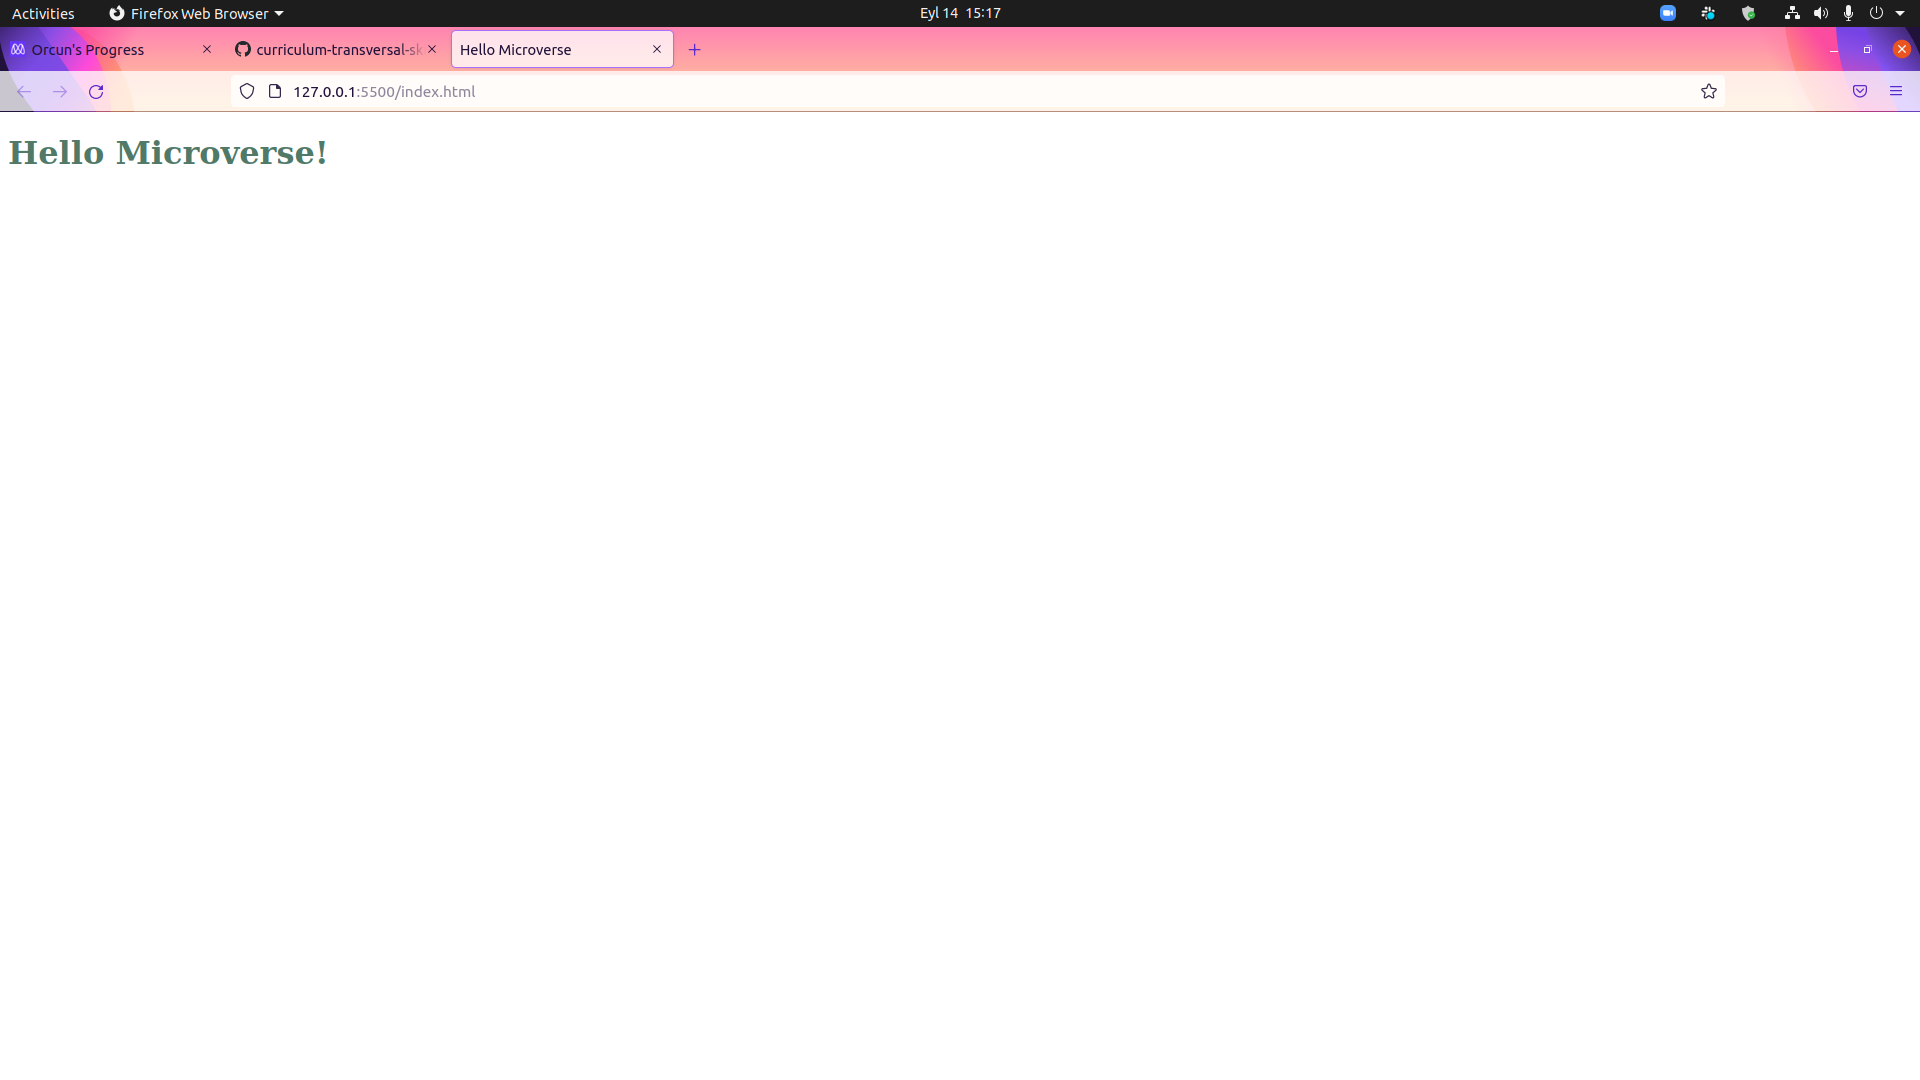
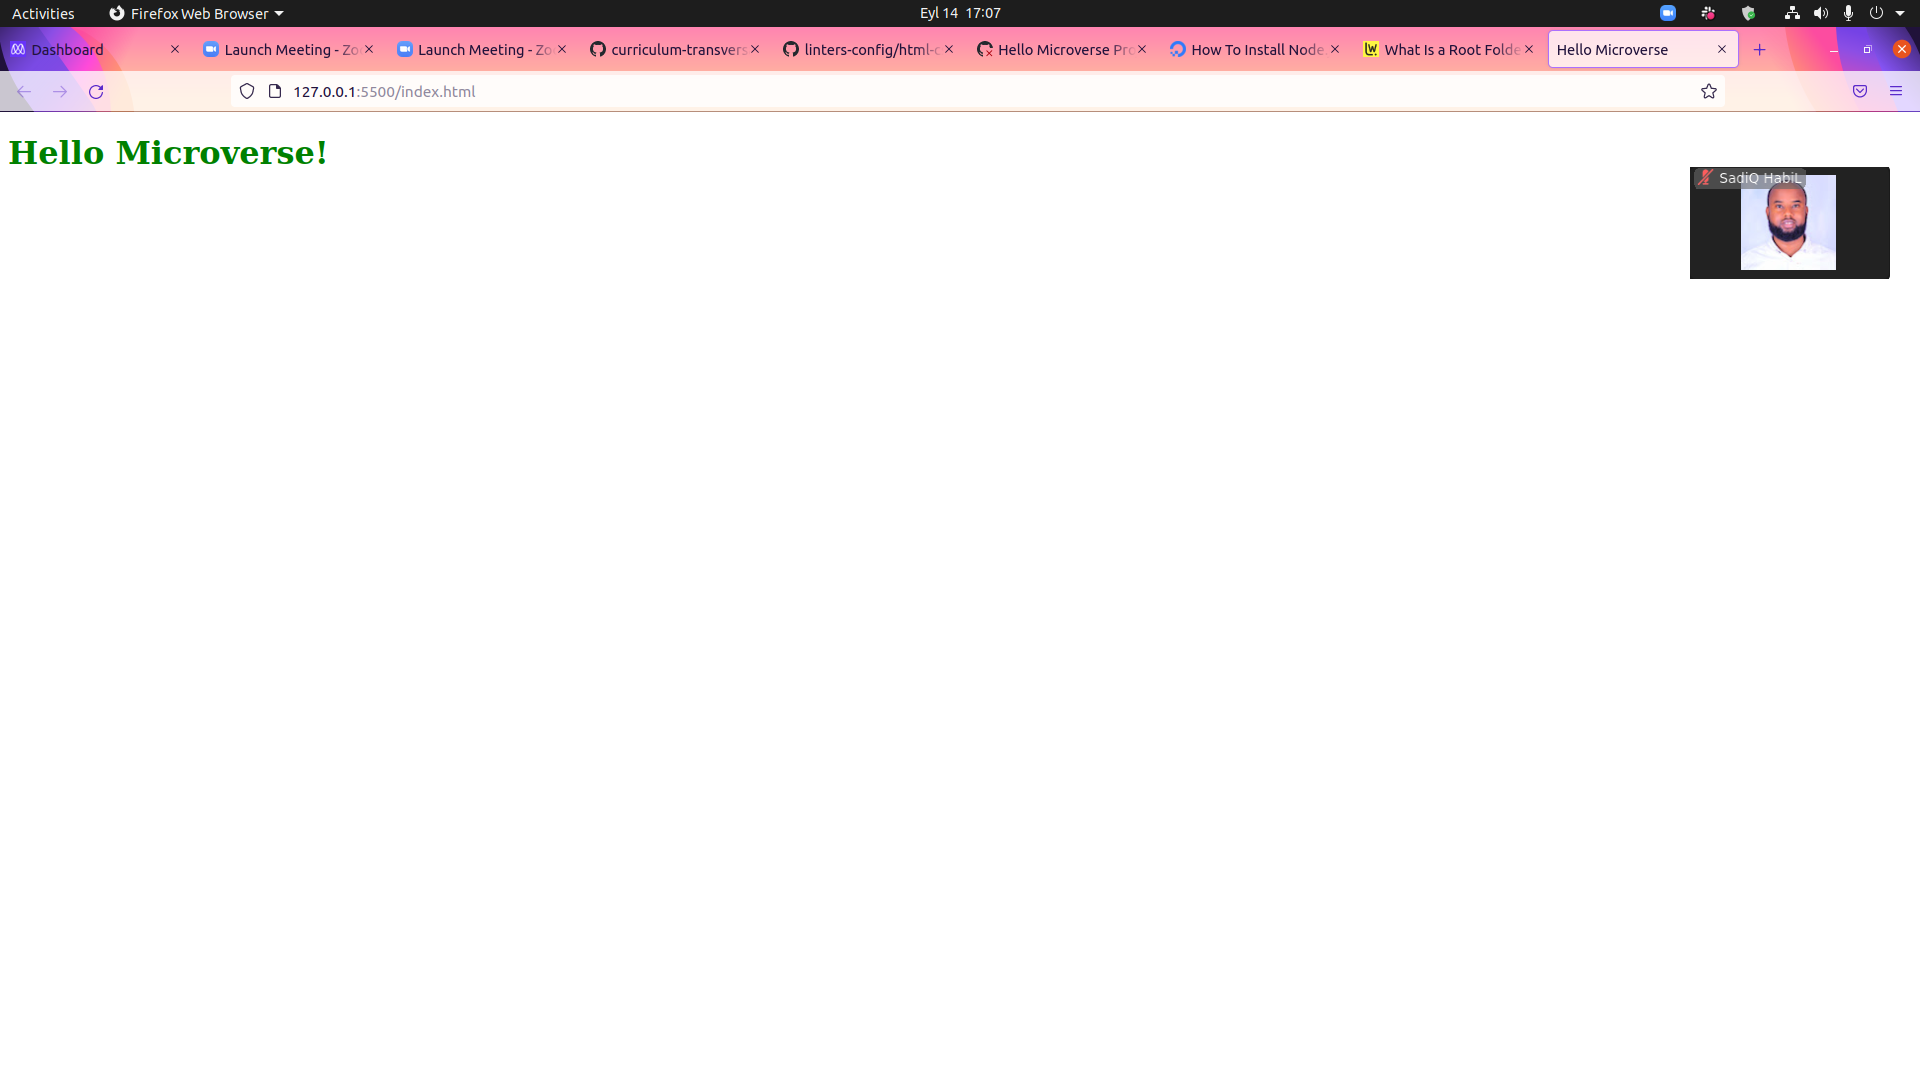
Fixed Stylelint Errors3

diff --git a/style.css b/style.css
@@ -1,1 +1,1 @@
-.header { color: rgb(80, 121, 104); }
+.header { color: green; }
